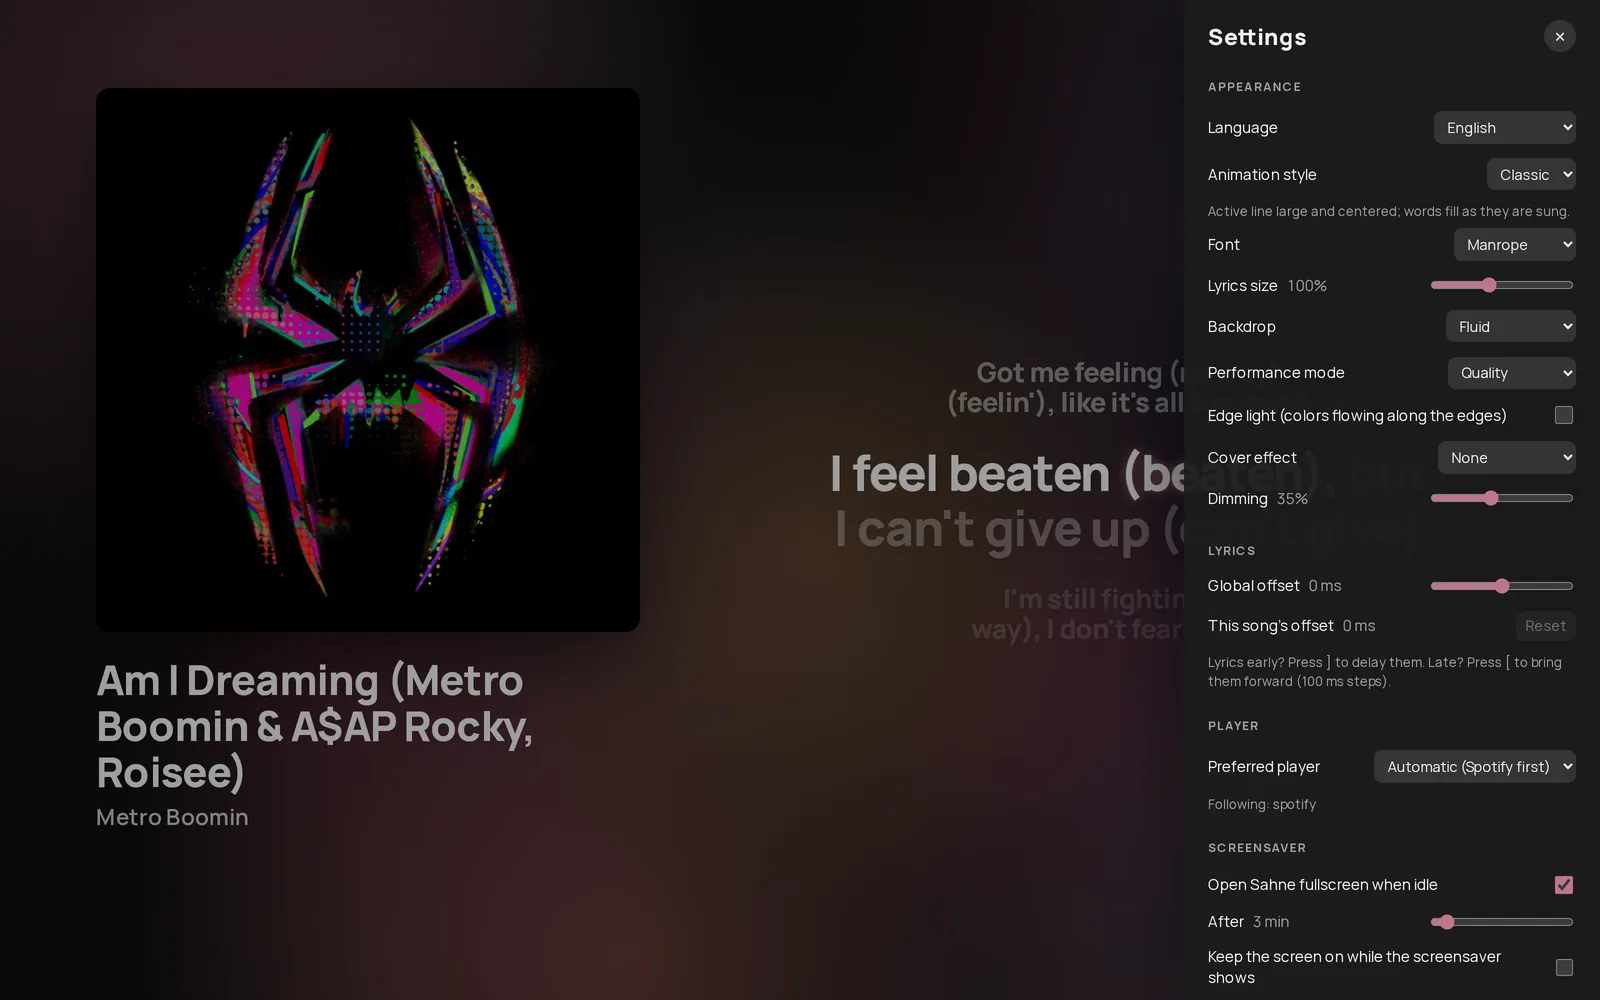
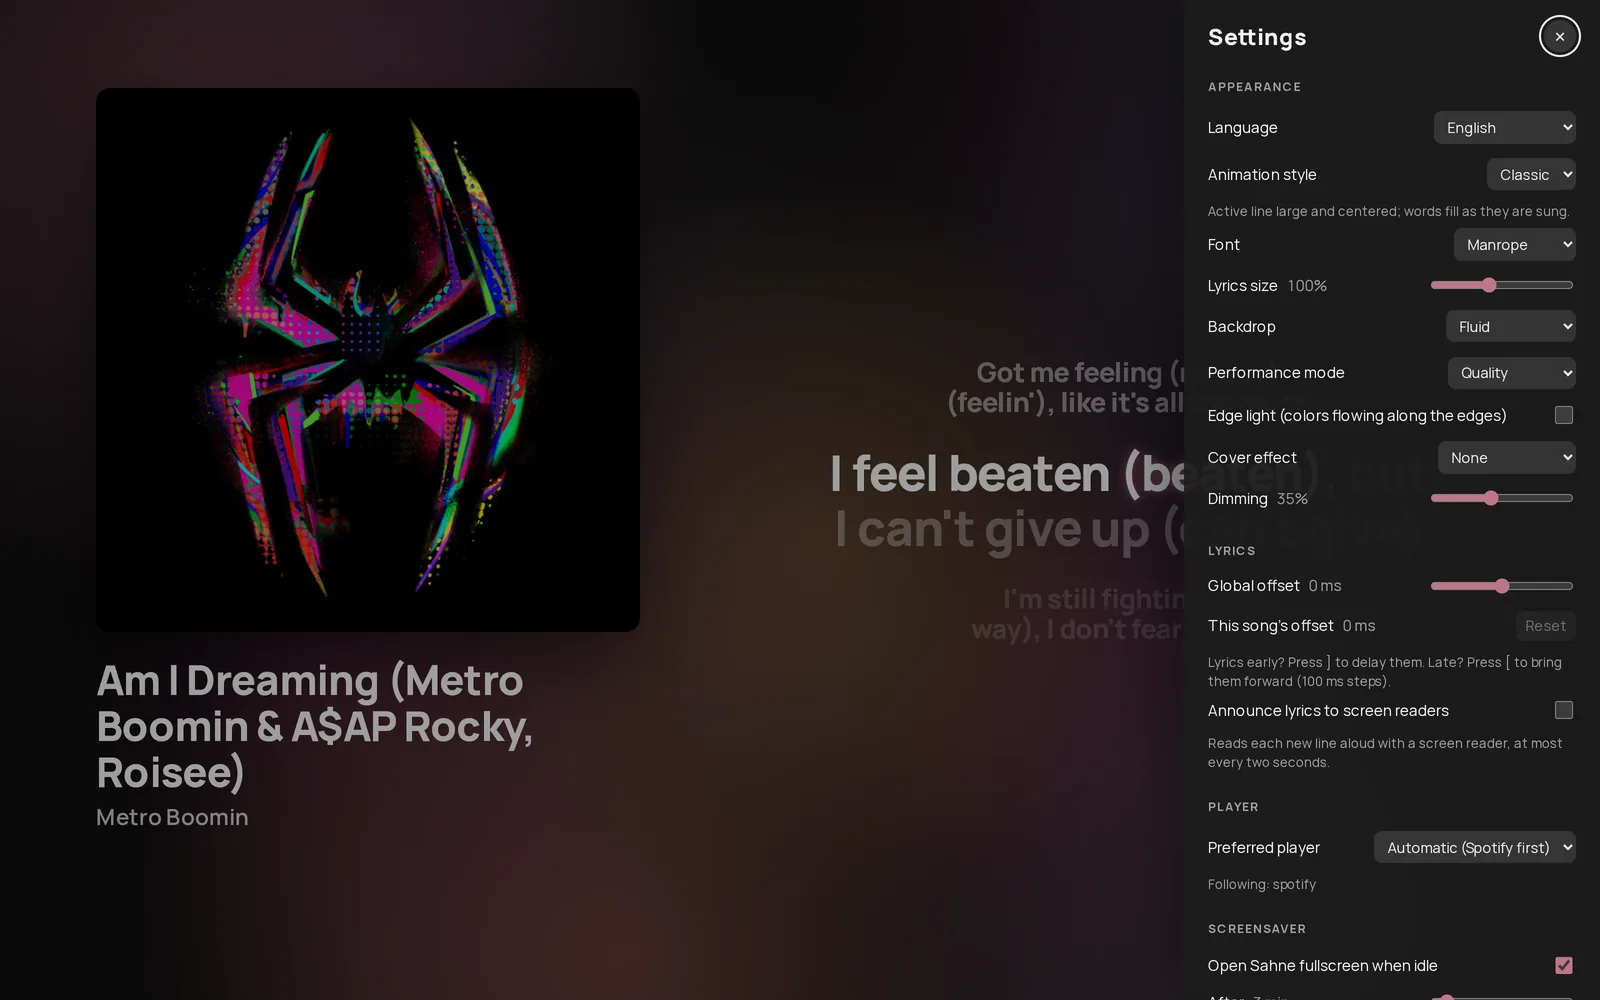
feat(a11y): visible keyboard focus everywhere; effects follow contrast and battery settings (A3, A4)
- A zero-specificity :focus-visible rule gives every control in the main
  and mini windows a visible focus ring.
- Cover effects: with prefers-contrast: more the electric border glows
  and flickers less and the metal plate drops its moving highlights; in
  Battery saver the border draws at 30 fps at half the pixel budget
  without sparks, and the plate renders at 1x. Reduced motion already
  turns both off. Documented in the READMEs.
- Visual baseline and README screenshot of the settings dialog updated
  (focus ring on the close button, new announce option).

Changed region(s): [[0.75, 0.682, 1.0, 1.0], [0.9688, 0.682, 1.0, 0.713]]

diff --git a/src/lib/fx/electricBorder.ts b/src/lib/fx/electricBorder.ts
@@ -431,6 +431,10 @@ export interface ElectricOptions {
   theme?: "dark" | "light";
   /** Freeze on the current frame and stop rendering (e.g. while paused). */
   paused?: boolean;
+  /** Frame rate cap; below 60 skips frames (battery saver). */
+  maxFps?: number;
+  /** Share of the default pixel budget (lower for battery saver). */
+  resolution?: number;
 }
 
 export type ElectricSettings = ReturnType<typeof electricSettings>;
@@ -456,6 +460,8 @@ export function electricSettings({
   cursorRadius = 90,
   theme = "dark",
   paused = false,
+  maxFps = 60,
+  resolution = 1,
 }: ElectricOptions = {}) {
   const base = parseColor(color);
   return {
@@ -478,6 +484,8 @@ export function electricSettings({
     interactive,
     cursorRadius: Math.max(1, cursorRadius),
     light: theme === "light",
+    maxFps: clamp(maxFps, 10, 60),
+    resolution: clamp(resolution, 0.1, 1),
   };
 }
 
@@ -554,7 +562,7 @@ export function createElectricBorder(
     const ratio = Math.min(
       window.devicePixelRatio || 1,
       2,
-      Math.sqrt(PIXEL_BUDGET / (canvasWidth * canvasHeight)),
+      Math.sqrt((PIXEL_BUDGET * s.resolution) / (canvasWidth * canvasHeight)),
     );
     const pixelWidth = Math.max(1, Math.round(canvasWidth * ratio));
     const pixelHeight = Math.max(1, Math.round(canvasHeight * ratio));
@@ -643,9 +651,13 @@ export function createElectricBorder(
     gl.drawArrays(gl.TRIANGLES, 0, 3);
   };
 
+  let lastDrawn = -Infinity;
   const frame = (now: number) => {
     if (lost) return;
     const s = getSettings();
+    // Frame cap: skip this frame but keep the loop (and `busy`) as it is.
+    if (s.maxFps < 60 && now - lastDrawn < 1000 / s.maxFps - 2) return;
+    lastDrawn = now;
     const dt = clamp((now - last) / 1000 || 0, 0, 0.05);
     last = Math.max(last, now);
     const motion = reduced ? 0.2 : 1;

diff --git a/src/lib/fx/reflectivePlate.ts b/src/lib/fx/reflectivePlate.ts
@@ -378,6 +378,8 @@ export interface ReflectiveOptions {
   tiltStrength?: number;
   radius?: number;
   intro?: boolean;
+  /** Highest device pixel ratio to render at (1 for battery saver). */
+  maxScale?: number;
 }
 
 export type ReflectiveSettings = ReturnType<typeof reflectiveSettings>;
@@ -610,6 +612,7 @@ export function reflectiveSettings({
   tiltStrength = 12,
   radius = 24,
   intro = true,
+  maxScale = 2,
 }: ReflectiveOptions = {}) {
   const palette = theme === "light" ? "light" : "dark";
   return {
@@ -628,6 +631,7 @@ export function reflectiveSettings({
     radius: Math.max(0, radius),
     theme: palette === "light" ? 1 : 0,
     intro,
+    maxScale: clamp(maxScale, 1, 2),
   };
 }
 
@@ -724,7 +728,7 @@ export function createReflectivePlate(
   const resize = () => {
     size.width = body.offsetWidth;
     size.height = body.offsetHeight;
-    size.scale = Math.min(window.devicePixelRatio || 1, 2);
+    size.scale = Math.min(window.devicePixelRatio || 1, getSettings().maxScale);
     const w = Math.max(1, Math.round(size.width * size.scale));
     const h = Math.max(1, Math.round(size.height * size.scale));
     if (canvas.width !== w || canvas.height !== h) {
@@ -736,6 +740,8 @@ export function createReflectivePlate(
 
   const frame = (now: number) => {
     if (lost) return;
+    // The resolution cap is a setting (battery saver); follow it.
+    if (Math.min(window.devicePixelRatio || 1, getSettings().maxScale) !== size.scale) resize();
     const dt = Math.min(0.05, (now - last) / 1000 || 0);
     last = now;
     const slow = now < slowUntil;

diff --git a/src/lib/components/fx/ElectricBorder.svelte b/src/lib/components/fx/ElectricBorder.svelte
@@ -1,11 +1,15 @@
 <script lang="ts">
   import { untrack, type Snippet } from "svelte";
   import { createElectricBorder, electricSettings, MARGIN } from "../../fx/electricBorder";
+  import { settings } from "../../stores/settings.svelte";
+  import { ui } from "../../stores/ui.svelte";
 
   /**
    * Crackling light around `children`, in `color`. Without WebGL2 it simply
    * shows the children. `active = false` fades the light out and stops the
    * render loop (e.g. while the cover is hidden), so it costs nothing.
+   * With "more contrast" requested the light glows and flickers less; the
+   * battery saver drops the sparks and draws at 30 fps and lower resolution.
    */
   let {
     color,
@@ -26,11 +30,13 @@
       active,
       paused,
       borderRadius: radius,
-      glow: 0.9,
+      glow: ui.moreContrast ? 0.3 : 0.9,
       intensity: 0.85,
-      chaos: 0.45,
-      spread: 0.55,
+      chaos: ui.moreContrast ? 0.25 : 0.45,
+      spread: ui.moreContrast ? 0.3 : 0.55,
+      flicker: ui.moreContrast ? 0 : 0.5,
       strands: 3,
+      ...(settings.current.performance_mode === "battery" ? { arcs: 0, maxFps: 30, resolution: 0.5 } : {}),
     }),
   );
   let fx: ReturnType<typeof createElectricBorder> = null;

diff --git a/src/lib/stores/ui.svelte.ts b/src/lib/stores/ui.svelte.ts
@@ -3,6 +3,7 @@ export type LyricsStyle = (typeof STYLES)[number];
 
 const reducedMotion =
   typeof matchMedia === "function" ? matchMedia("(prefers-reduced-motion: reduce)") : null;
+const moreContrast = typeof matchMedia === "function" ? matchMedia("(prefers-contrast: more)") : null;
 
 const SWITCH_FADE_MS = 220;
 
@@ -10,6 +11,8 @@ class UiStore {
   /** Style chosen by the user; the settings store keeps it in sync. */
   style = $state<LyricsStyle>("classic");
   reducedMotion = $state(reducedMotion?.matches ?? false);
+  /** The system asks for more contrast: calmer, less glowing effects. */
+  moreContrast = $state(moreContrast?.matches ?? false);
   controlsVisible = $state(true);
   settingsOpen = $state(false);
   /** The window is hidden or minimised; nothing should animate. */
@@ -27,6 +30,7 @@ class UiStore {
 
   constructor() {
     reducedMotion?.addEventListener("change", (e) => (this.reducedMotion = e.matches));
+    moreContrast?.addEventListener("change", (e) => (this.moreContrast = e.matches));
   }
 
   /** What is actually rendered: reduced motion always wins. */

diff --git a/src/lib/components/fx/MetalCover.svelte b/src/lib/components/fx/MetalCover.svelte
@@ -1,6 +1,8 @@
 <script lang="ts">
   import { untrack } from "svelte";
   import { createReflectivePlate, reflectiveSettings } from "../../fx/reflectivePlate";
+  import { settings } from "../../stores/settings.svelte";
+  import { ui } from "../../stores/ui.svelte";
 
   /**
    * The cover set into a brushed metal plate. The plate mirrors a blurred
@@ -27,8 +29,11 @@
       grayscale: 0.55,
       roughness: 0.32,
       blurStrength: 8,
-      glare: 0.55,
+      // More contrast: a calmer plate without moving highlights.
+      glare: ui.moreContrast ? 0.15 : 0.55,
+      warp: ui.moreContrast ? 0.2 : 0.6,
       tiltStrength: 10,
+      maxScale: settings.current.performance_mode === "battery" ? 1 : 2,
     }),
   );
   let fx: ReturnType<typeof createReflectivePlate> | null = null;

diff --git a/src/app.css b/src/app.css
@@ -123,3 +123,12 @@ body {
 body {
   background: transparent;
 }
+
+/* Visible keyboard focus on every control, in both windows (A3). Zero
+   specificity, so components can still fine-tune it; pointer clicks don't
+   show it. */
+:where(button, select, input, summary, a[href], [role="button"], [role="slider"], [tabindex]):focus-visible {
+  outline: 2px solid var(--text);
+  outline-offset: 3px;
+  border-radius: 6px;
+}

diff --git a/README.tr.md b/README.tr.md
@@ -126,6 +126,9 @@ Kapak efektleri (Ayarlar → Görünüm → Kapak efekti) renklerini kapaktan al
   yaklaşınca kıvılcımlanır, tıklayınca bir dalga yayar.
 
 İkisi de WebGL2 ister ve sistem hareketin azaltılmasını istiyorsa kapanır.
+Sistem daha yüksek kontrast istiyorsa elektrik kenarlık daha az parlar ve
+titrer, metal plaka hareketli parıltılarını bırakır; Pil tasarrufu modunda
+elektrik kenarlık kıvılcımsız ve 30 fps çizilir, plaka 1x çözünürlükte çizilir.
 **Kenar ışığı**, ekranın kenarları boyunca akan renkler ekler.
 
 ![Pencerenin sağında açık ayarlar paneli](docs/screenshots/settings.webp)

diff --git a/README.md b/README.md
@@ -123,6 +123,9 @@ the cover:
   the mouse comes near and sends a pulse on click.
 
 Both need WebGL2. They are turned off when the system asks for reduced motion.
+When it asks for more contrast, the electric border glows and flickers less and
+the metal plate drops its moving highlights; in Battery saver mode the electric
+border draws at 30 fps without sparks and the plate renders at 1x resolution.
 **Edge light** adds colors flowing along the screen edges.
 
 ![The settings panel, open on the right side of the window](docs/screenshots/settings.webp)
